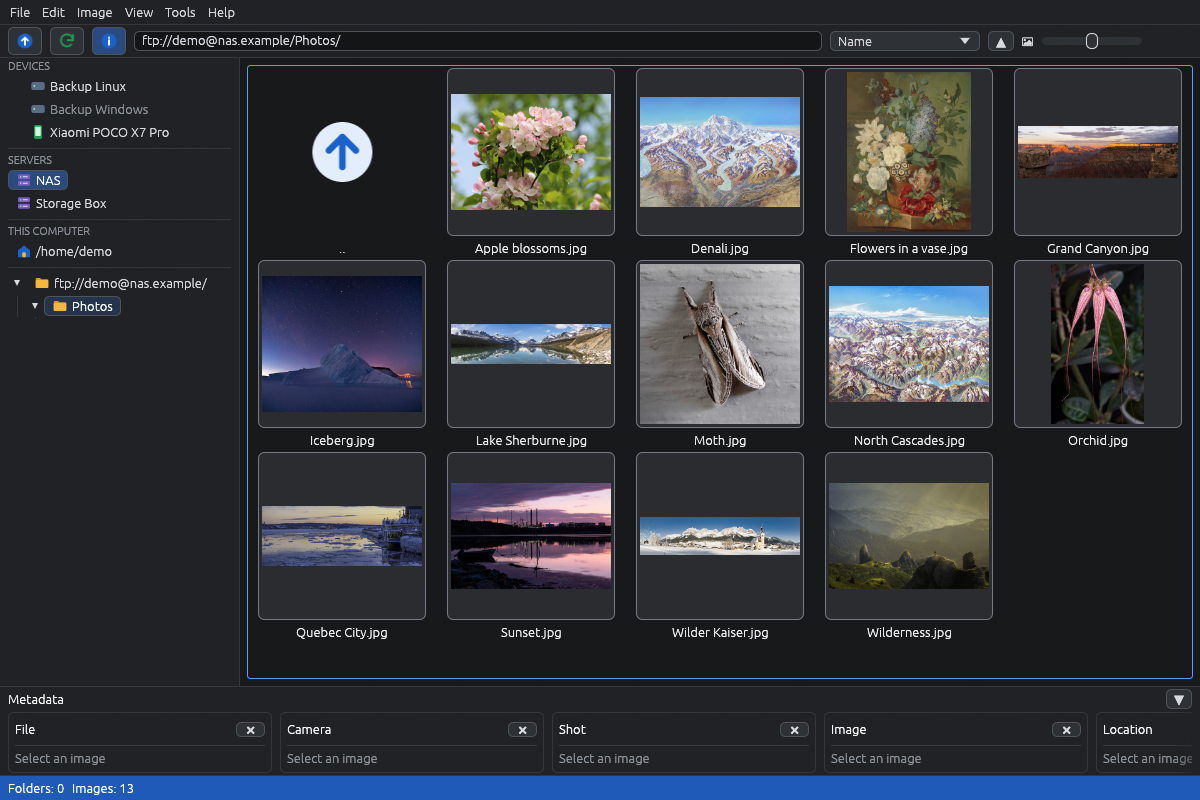
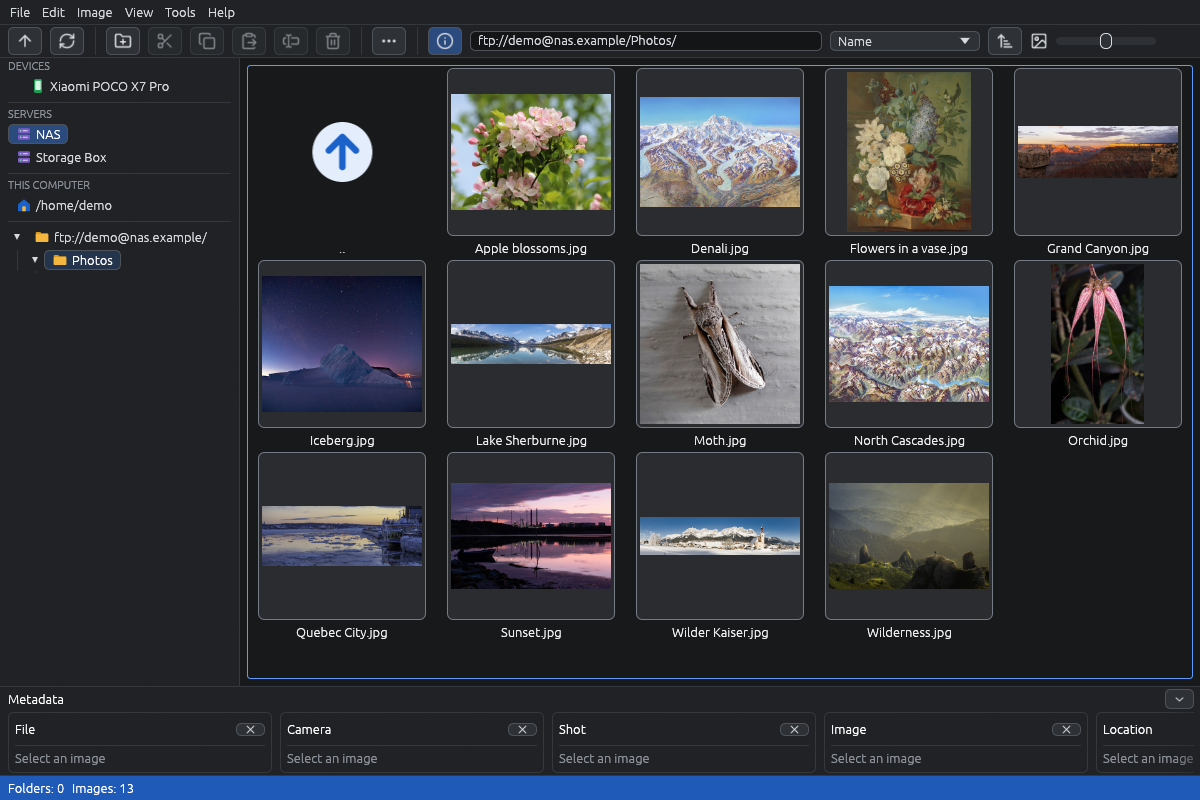
Screenshots: new servers, devices and video-convert, without disks in the left panel
The descriptions in SOURCES.txt, the README and the site follow: the
devices screenshot no longer shows disks.

Changed region(s): [[0.0, 0.0938, 0.185, 0.4062], [0.0, 0.0312, 0.555, 0.0938], [0.8325, 0.0312, 0.925, 0.0625]]

diff --git a/site/it/index.html b/site/it/index.html
@@ -154,7 +154,7 @@ sudo dnf install eyecansee</code></pre>
     <figure><img class="shot" src="../img/viewer.png" width="1200" height="800" loading="lazy" alt="La foto di un'orchidea nel visore, con nome, dimensioni, zoom e data nella barra in basso"><figcaption>Il visore</figcaption></figure>
     <figure><img class="shot" src="../img/model-3d.png" width="1200" height="800" loading="lazy" alt="Il modello 3D di un avocado con le sue texture, nel visore 3D"><figcaption>Un modello 3D con le sue texture</figcaption></figure>
     <figure><img class="shot" src="../img/cad-drawing.png" width="1200" height="800" loading="lazy" alt="La pianta di un appartamento in DWG, con i nomi delle stanze, gli arredi e le quote"><figcaption>Un disegno DWG con livelli e quote</figcaption></figure>
-    <figure><img class="shot" src="../img/devices.png" width="1200" height="800" loading="lazy" alt="Il pannello di sinistra con due dischi, due server e un telefono, e una cartella di un server FTP aperta nella griglia"><figcaption>Dischi, un server e un telefono affiancati</figcaption></figure>
+    <figure><img class="shot" src="../img/devices.png" width="1200" height="800" loading="lazy" alt="Il pannello di sinistra con un telefono, due server e la cartella home, e una cartella di un server FTP aperta nella griglia"><figcaption>Cartelle, un server e un telefono affiancati</figcaption></figure>
     <figure><img class="shot" src="../img/convert.png" width="1200" height="800" loading="lazy" alt="Salva in un altro formato: il JPEG originale e quello convertito affiancati, con le opzioni di formato, qualità e metadati"><figcaption>Salvare in un altro formato</figcaption></figure>
     <figure><img class="shot" src="../img/video-convert.png" width="1600" height="800" loading="lazy" alt="La finestra Converti e ridimensiona per quattro video: contenitore, codifica, codificatore della scheda video, qualità, rotazione e dimensioni"><figcaption>Convertire i video</figcaption></figure>
     <figure><img class="shot" src="../img/rotate.png" width="1200" height="800" loading="lazy" alt="Ruota e ritaglia: una foto di montagna con il riquadro del ritaglio e i comandi di rotazione e ritaglio"><figcaption>Ruotare e ritagliare</figcaption></figure>

diff --git a/site/index.html b/site/index.html
@@ -154,7 +154,7 @@ sudo dnf install eyecansee</code></pre>
     <figure><img class="shot" src="img/viewer.png" width="1200" height="800" loading="lazy" alt="A photo of an orchid in the viewer, with name, size, zoom and date in the bar below"><figcaption>The viewer</figcaption></figure>
     <figure><img class="shot" src="img/model-3d.png" width="1200" height="800" loading="lazy" alt="A 3D model of an avocado with its textures, in the 3D viewer"><figcaption>A 3D model with its textures</figcaption></figure>
     <figure><img class="shot" src="img/cad-drawing.png" width="1200" height="800" loading="lazy" alt="A DWG floor plan of a flat, with room names, furniture and dimensions"><figcaption>A DWG drawing with layers and dimensions</figcaption></figure>
-    <figure><img class="shot" src="img/devices.png" width="1200" height="800" loading="lazy" alt="The left panel with two disks, two servers and a phone, and a folder of an FTP server open in the grid"><figcaption>Disks, a server and a phone side by side</figcaption></figure>
+    <figure><img class="shot" src="img/devices.png" width="1200" height="800" loading="lazy" alt="The left panel with a phone, two servers and the home folder, and a folder of an FTP server open in the grid"><figcaption>Folders, a server and a phone side by side</figcaption></figure>
     <figure><img class="shot" src="img/convert.png" width="1200" height="800" loading="lazy" alt="Save in another format: the original JPEG and the converted one side by side, with format, quality and metadata options"><figcaption>Saving in another format</figcaption></figure>
     <figure><img class="shot" src="img/video-convert.png" width="1600" height="800" loading="lazy" alt="The Convert and resize window for four videos: container, codec, graphics card encoder, quality, turn and size"><figcaption>Converting videos</figcaption></figure>
     <figure><img class="shot" src="img/rotate.png" width="1200" height="800" loading="lazy" alt="Rotate and crop: a mountain photo with the crop frame and the rotation and crop controls"><figcaption>Rotating and cropping</figcaption></figure>

diff --git a/README.md b/README.md
@@ -32,7 +32,7 @@ It is early in development. This page lists only what works now: new features ar
 
 ![A DWG drawing with layers and dimensions](docs/screenshots/cad-drawing.png)
 
-![Folders, disks, a server and a phone side by side in the left panel](docs/screenshots/devices.png)
+![Folders, a server and a phone side by side in the left panel](docs/screenshots/devices.png)
 
 ![Saving in another format, the original and the result side by side](docs/screenshots/convert.png)
 
